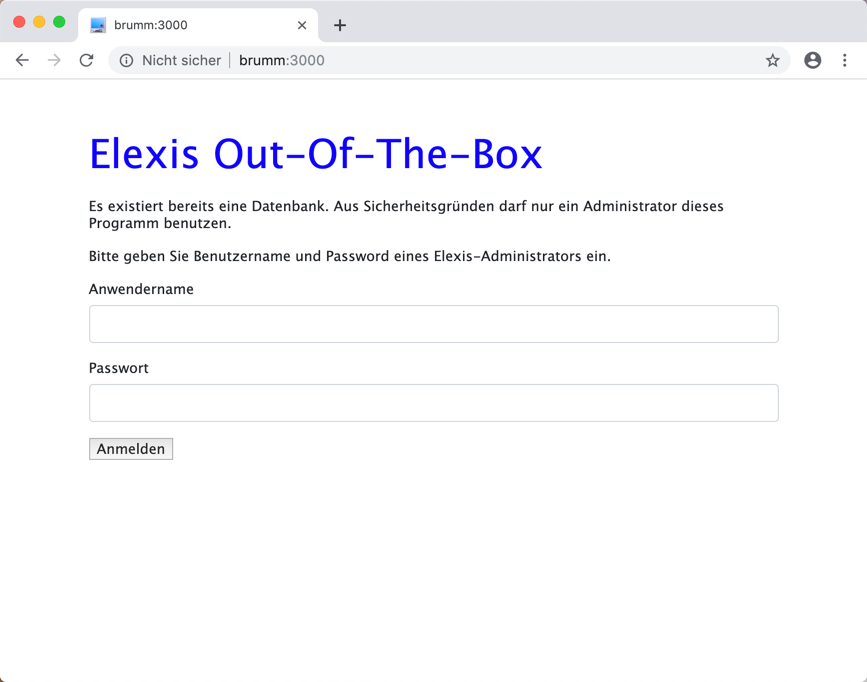
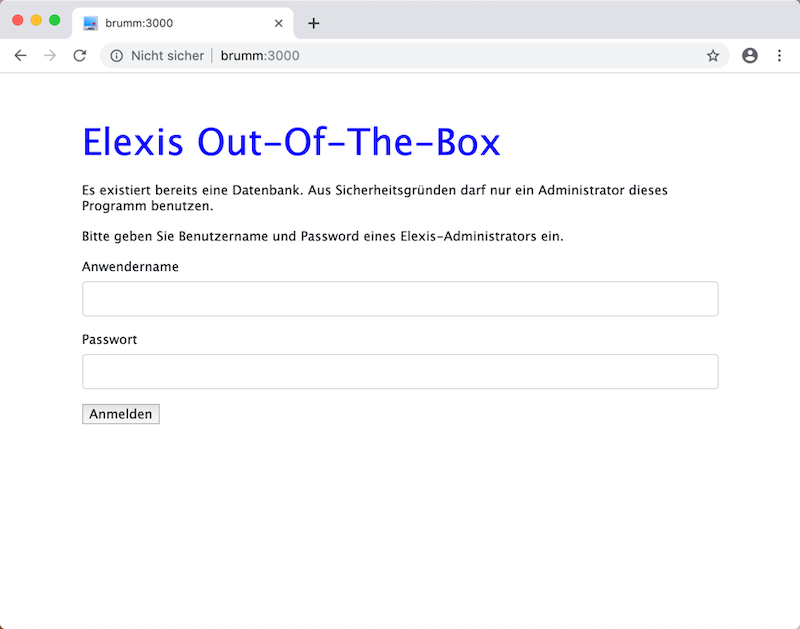
passwort

diff --git a/appserver/site/public/doc/config.md b/appserver/site/public/doc/config.md
@@ -6,6 +6,14 @@ Ich gehe davon aus, dass Sie elexis-oob auf dem Server bereits gestartet haben. 
 
 ![](../images/oob_einstieg.png)
 
+Falls Sie schon eine Datenbank erstellt haben, werden Sie stattdessen dieses Bild sehen:
+
+![](../images/oob_einstieg_a.png)
+
+Dies ist ein Schutz, damit Unbefugte keine Manipulationen oder gar Beschädigungen der Daten verüben können. Sie müssen hier Benutzername und Passwort eines Anwenders eingeben, der in Elexis Administratorrechte hat. Falls Sie beim Einrichten einfach immer "weiter" geklickt haben, ist das Administrator/admin. Nachdem Sie die Demo-Datenbank eingelesen haben, ist es test/test. 
+
+Wenn Sie erfolgreich eingeloggt sind, können Sie den folgenden Abschnitt übergehen und gleich bei "Basis Datenbestände einlesen" weitermachen.
+
 Klicken Sie auf den Link "Datenbank initialisieren" im rechten unteren Bereich unter "Verwaltung". Der nächste Screen erscheint:
 
 ![](../images/oob_dbinit_01.png)
